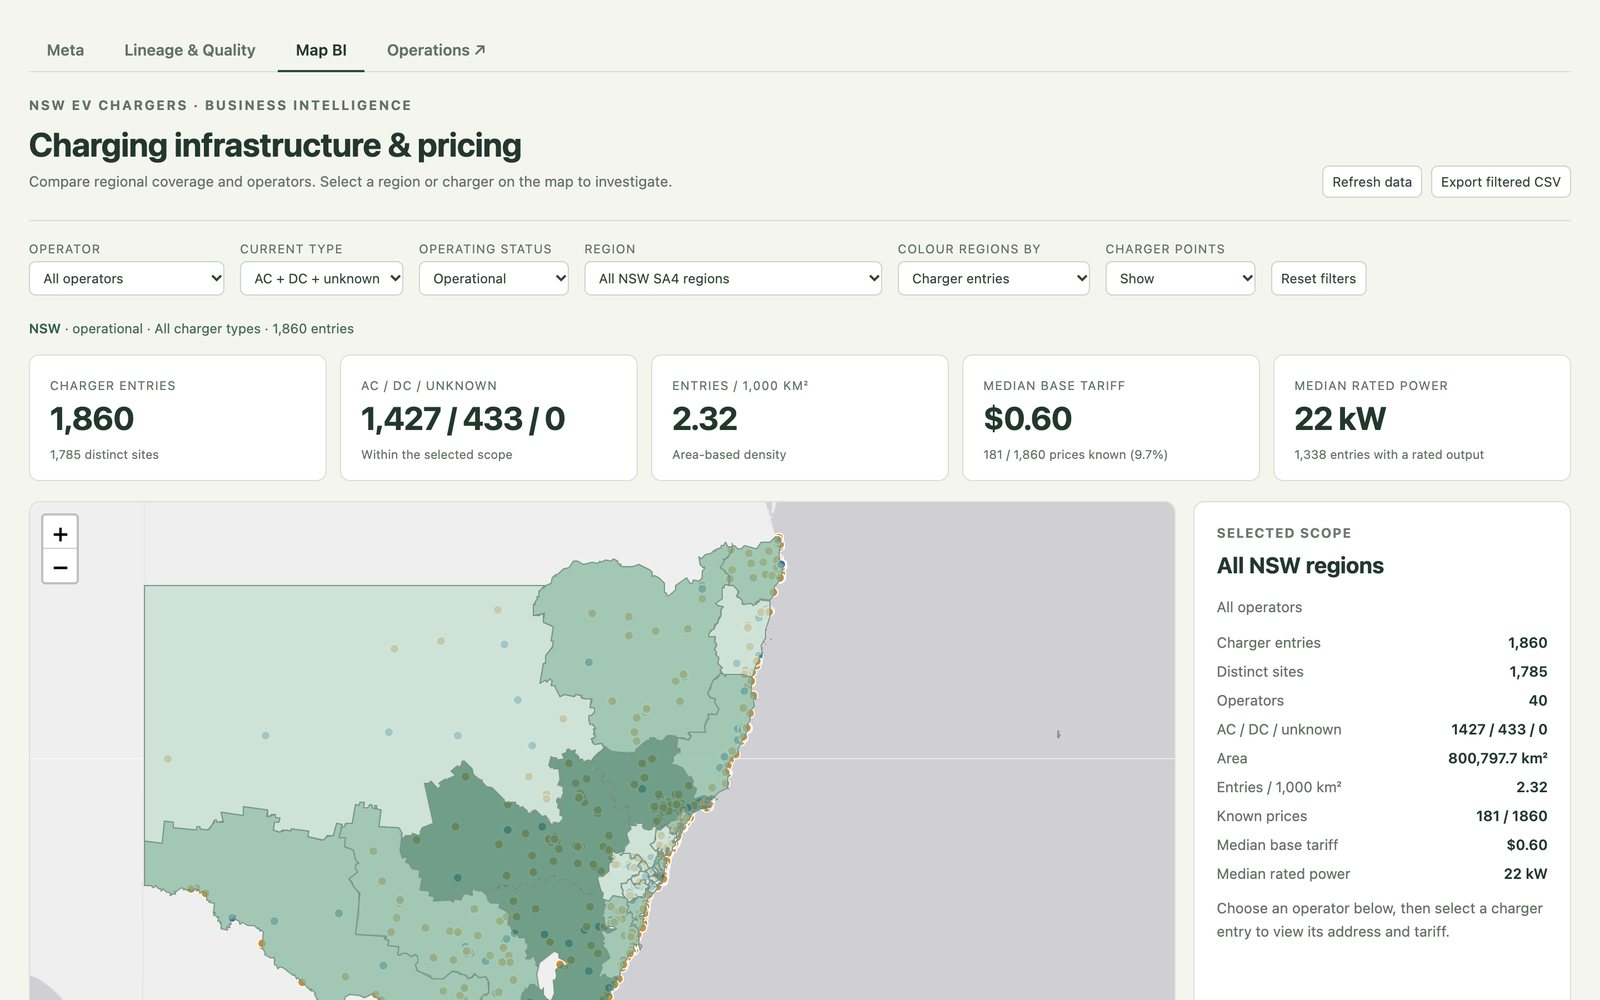
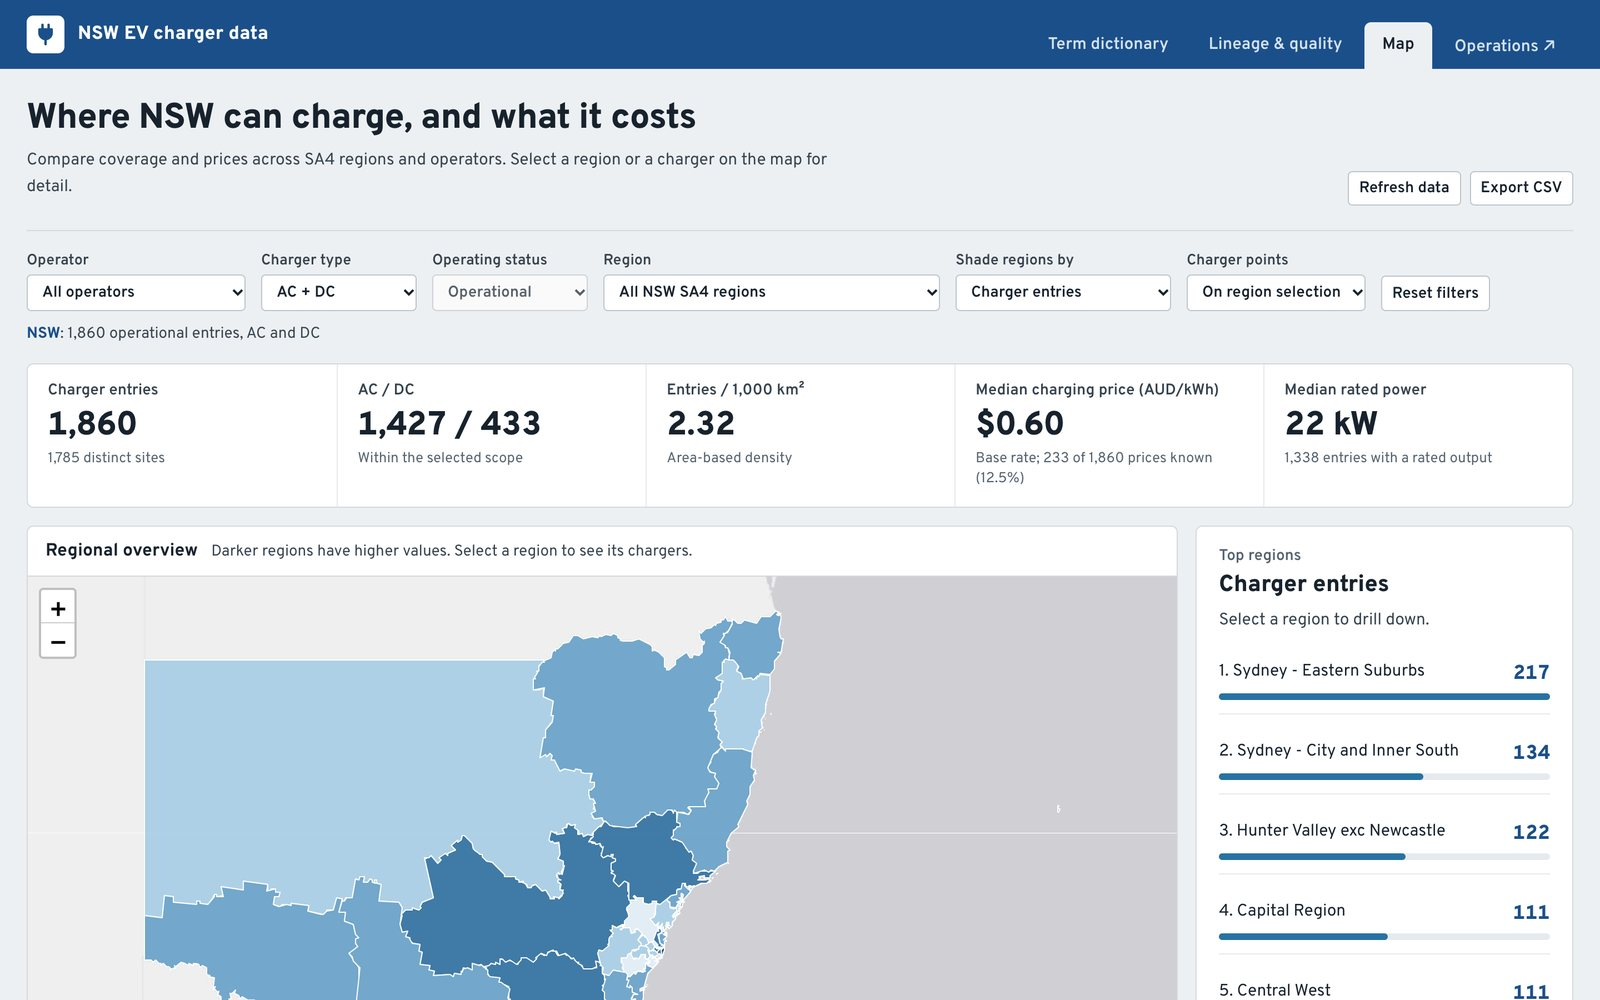
EV page: refresh dashboard screenshots for the updated data workspace UI

diff --git a/projects/ev-platform/index.html b/projects/ev-platform/index.html
@@ -276,7 +276,7 @@ small { color: var(--muted); }
       </figure>
       <figure class="shot">
         <a href="img/ops/silver-term-dictionary.jpg" target="_blank" rel="noopener" title="Open full size"><img src="img/ops/silver-term-dictionary.jpg" alt="Standard term dictionary screen listing seven unregistered operator spellings with map and create actions" loading="lazy" width="1600" height="1000"></a>
-        <figcaption><b>Figure 3.2</b> The standard term dictionary. Spellings the pipeline does not know wait here; a person maps or creates them and the next run applies the change.</figcaption>
+        <figcaption><b>Figure 3.2</b> The term dictionary tab. Spellings the pipeline does not know wait here; a person maps or creates them and the next run applies the change.</figcaption>
       </figure>
     </div>
   </div>
@@ -397,8 +397,8 @@ small { color: var(--muted); }
       </div>
     </div>
     <figure class="shot tall">
-      <div class="scroll"><a href="img/ops/dq-dashboard.jpg" target="_blank" rel="noopener" title="Open full size"><img src="img/ops/dq-dashboard.jpg" alt="Quality dashboard: gate status, dimension cards, coverage, source timeliness and volume, every check with its trend, and the run list" loading="lazy" width="1600" height="3256"></a></div>
-      <figcaption><b>Figure 6.1</b> Quality dashboard (scroll inside the frame): gate, dimensions, coverage, source timeliness and
+      <div class="scroll"><a href="img/ops/dq-dashboard.jpg" target="_blank" rel="noopener" title="Open full size"><img src="img/ops/dq-dashboard.jpg" alt="Quality runs screen: gate status, dimension cards, coverage, source timeliness and volume, every check with its trend, and the run list" loading="lazy" width="1600" height="3604"></a></div>
+      <figcaption><b>Figure 6.1</b> The Quality runs screen (scroll inside the frame): gate, dimensions, coverage, source timeliness and
         volume from the ledger, every check with its trend, and the run history including the failed run.</figcaption>
     </figure>
 
@@ -424,8 +424,8 @@ small { color: var(--muted); }
     <p class="sub">Regional coverage and pricing for analysts, read from one consistent Gold snapshot. Filters drive the map,
       KPIs and records together, and the filtered rows export as CSV.</p>
     <figure class="shot">
-      <a href="img/ops/bi-map.jpg" target="_blank" rel="noopener" title="Open full size"><img src="img/ops/bi-map.jpg" alt="Map BI screen: filters, KPI cards for 1,860 operational charger entries, and a choropleth of NSW SA4 regions" loading="lazy" width="1600" height="1000"></a>
-      <figcaption><b>Figure 6.4</b> Map BI on the running system: operational chargers, AC/DC split, density, median tariff and rated power.</figcaption>
+      <a href="img/ops/bi-map.jpg" target="_blank" rel="noopener" title="Open full size"><img src="img/ops/bi-map.jpg" alt="Map screen: filters, KPI cards for 1,860 operational charger entries, a shaded map of NSW SA4 regions and a ranking of top regions" loading="lazy" width="1600" height="1000"></a>
+      <figcaption><b>Figure 6.4</b> The Map tab on the running system: operational chargers, AC/DC split, density, median charging price and rated power, with the top regions to drill into.</figcaption>
     </figure>
     <h4 class="h4">Interactive copy on the snapshot data</h4>
     <div class="controls" role="group" aria-label="Map layers">
